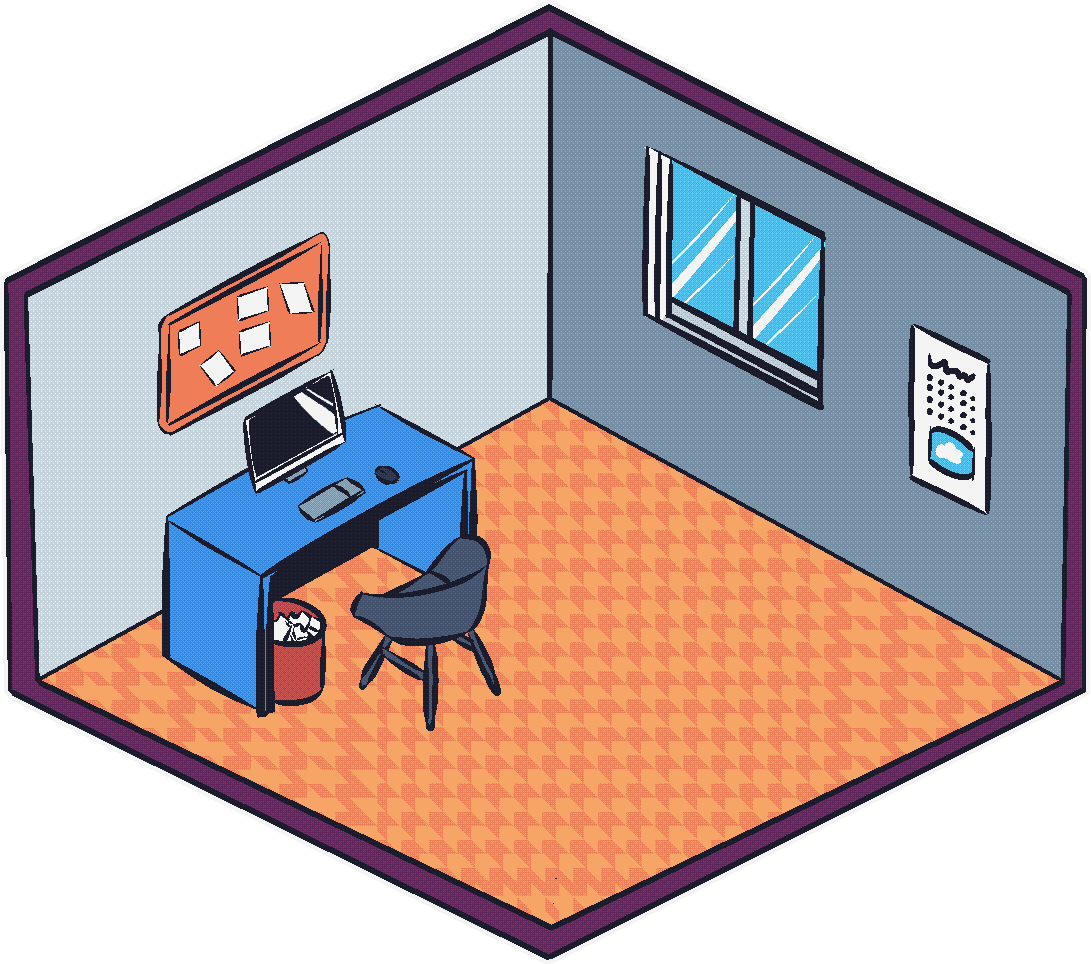
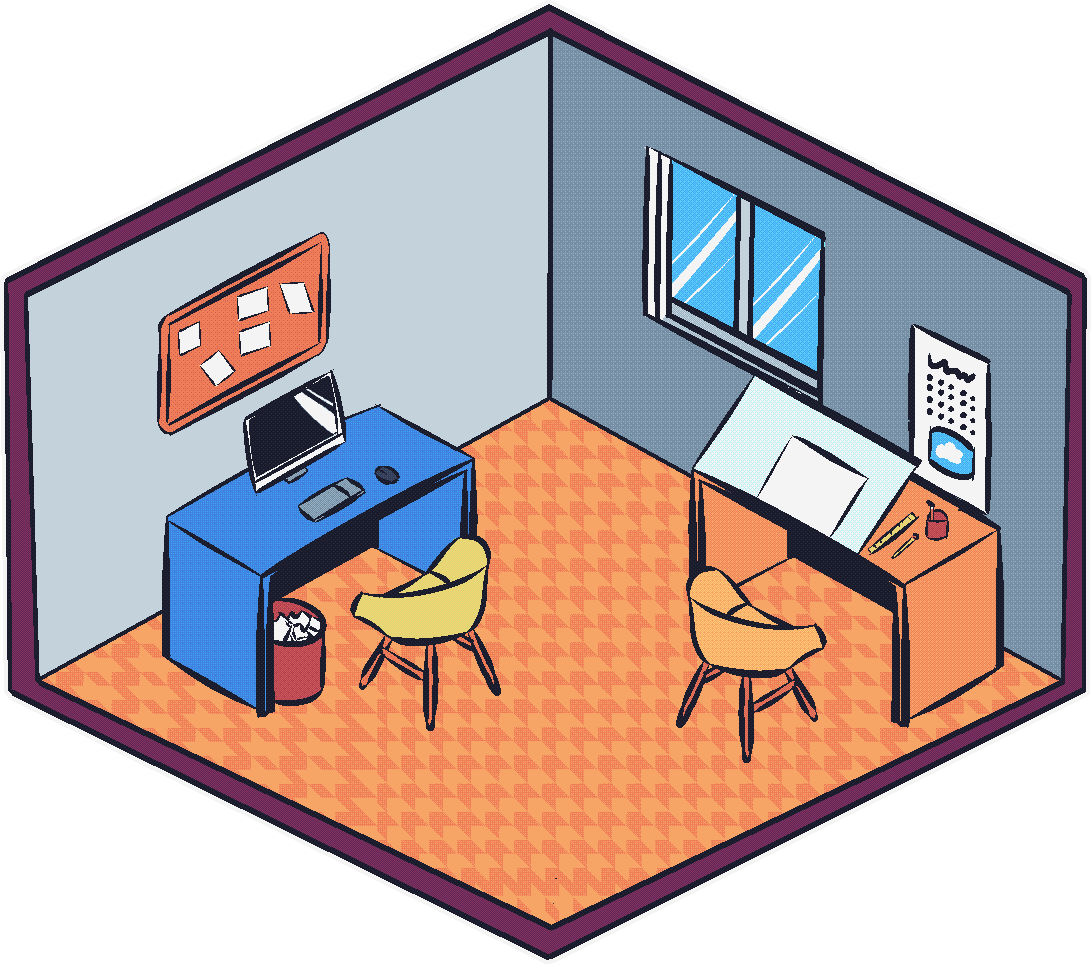
Removed the unused assets. Modified and added background for both cubicleRoom_view, and commented the music_workstation

diff --git a/README.md b/README.md
@@ -1,2 +1,5 @@
 # Infinite-Crunch-Time
-A game made for the Iloilo DevCon 2025  
+A game made for the Iloilo DevCon 2025   </br>
+
+Infinite Crunch Time is a simulates the career, challenges and creativity of a game developer’s life. Players are tasked with debugging and creating art to be submitted to the boss and employees on a daily basis. 
+The programming and debugging aspect is represented through the use of a fill-in the blank mini-game where players fix logic errors and trace bugs, simulating the problem-solving nature of coding. Complementing this is a diamond art–style system for creating visual assets, offering a relaxing yet rewarding creative outlet. The central loop of the gameplay consists of tasks being done by the player, with the efficiency of producing art and debugging minigames determining the pay of the player each day. Your performance determines your ending, which can range from being blacklisted in the industry to becoming an indie studio founder.
